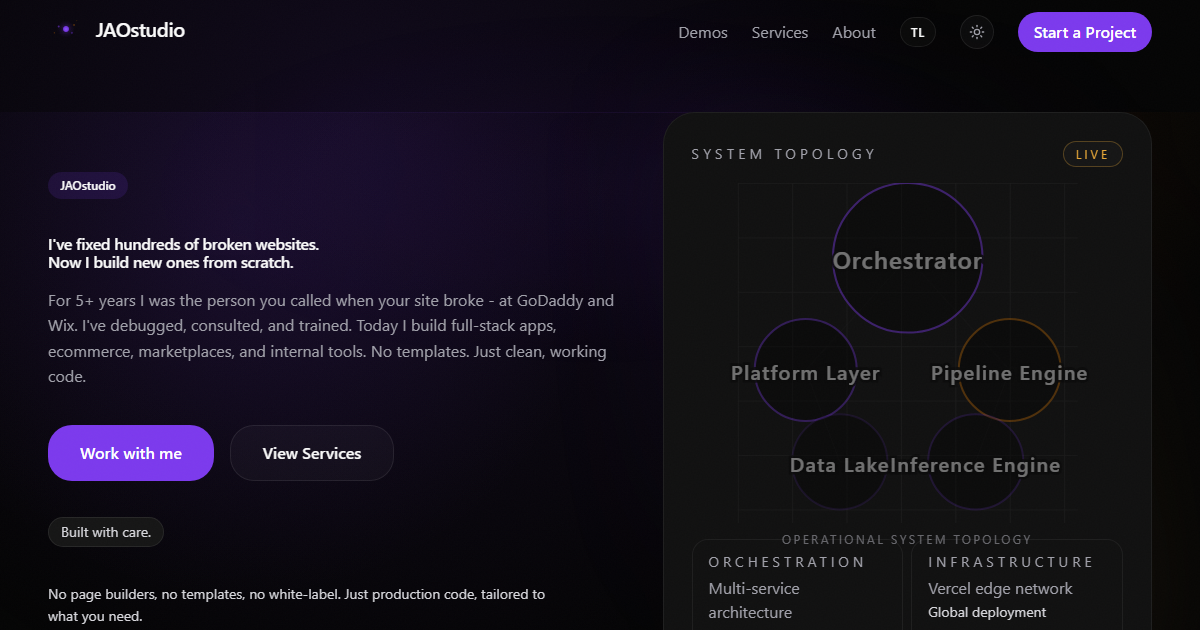
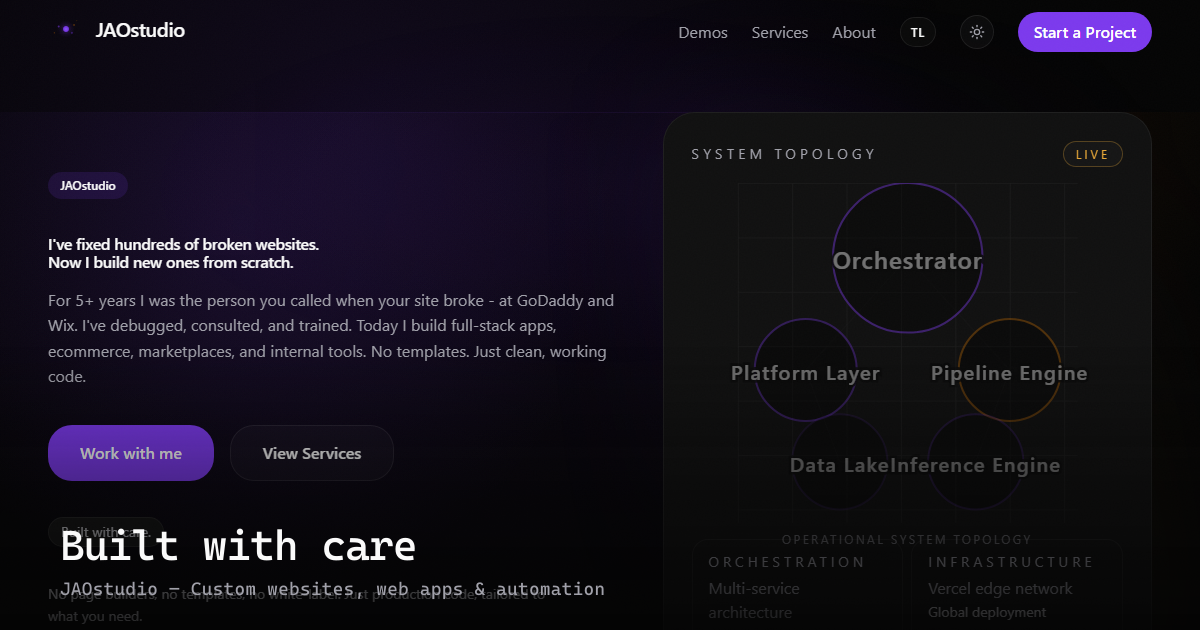
OG: serve homepage screenshot with 'Built with care' via /api/og route
- Captured live homepage screenshot at 1200x630
- Composited 'Built with care' tagline with dark gradient overlay
- New /api/og route handler serves PNG directly (bypasses Satori img limitation)
- Layout metadata points OG/Twitter images to /api/og
- Added composite-og.js script for future OG image updates

diff --git a/jaostudio/scripts/composite-og.js b/jaostudio/scripts/composite-og.js
@@ -1,0 +1,56 @@
+const sharp = require('sharp')
+const path = require('path')
+const fs = require('fs-extra')
+
+const ROOT = path.join(__dirname, '..')
+const SRC = path.join(ROOT, 'public', 'images', 'og', 'og-home.png')
+const OUT = SRC
+
+// SVG overlay: dark gradient at bottom with "Built with care" tagline
+const OVERLAY_SVG = Buffer.from(`
+<svg width="1200" height="630" xmlns="http://www.w3.org/2000/svg">
+  <defs>
+    <linearGradient id="fade" x1="0" y1="0" x2="0" y2="1">
+      <stop offset="0%" stop-color="#050505" stop-opacity="0"/>
+      <stop offset="55%" stop-color="#050505" stop-opacity="0"/>
+      <stop offset="100%" stop-color="#050505" stop-opacity="0.85"/>
+    </linearGradient>
+  </defs>
+  <rect width="1200" height="630" fill="url(#fade)"/>
+  <text
+    x="60"
+    y="560"
+    font-family="system-ui, -apple-system, sans-serif"
+    font-size="42"
+    font-weight="500"
+    fill="#FAFAFA"
+    letter-spacing="-0.02em"
+  >Built with care</text>
+  <text
+    x="60"
+    y="595"
+    font-family="system-ui, -apple-system, sans-serif"
+    font-size="18"
+    fill="#A1A1AA"
+    letter-spacing="0.02em"
+  >JAOstudio — Custom websites, web apps &amp; automation</text>
+</svg>
+`)
+
+async function main() {
+  await fs.ensureDir(path.dirname(OUT))
+  const img = sharp(SRC)
+  const meta = await img.metadata()
+  console.log(`Source: ${SRC} (${meta.width}x${meta.height})`)
+
+  await img
+    .composite([{ input: OVERLAY_SVG, top: 0, left: 0 }])
+    .png()
+    .toFile(OUT + '.tmp')
+
+  await fs.move(OUT + '.tmp', OUT, { overwrite: true })
+  const stat = await fs.stat(OUT)
+  console.log(`Done: ${OUT} (${Math.round(stat.size / 1024)} KB)`)
+}
+
+main().catch((err) => { console.error(err); process.exit(1) })

diff --git a/jaostudio/src/app/api/og/route.ts b/jaostudio/src/app/api/og/route.ts
@@ -1,0 +1,20 @@
+import { NextResponse } from 'next/server'
+import fs from 'fs'
+import path from 'path'
+
+export const dynamic = 'force-static'
+
+export async function GET() {
+  const filePath = path.join(process.cwd(), 'public', 'images', 'og', 'og-home.png')
+  try {
+    const buffer = fs.readFileSync(filePath)
+    return new NextResponse(buffer, {
+      headers: {
+        'Content-Type': 'image/png',
+        'Cache-Control': 'public, immutable, no-transform, max-age=31536000',
+      },
+    })
+  } catch {
+    return NextResponse.json({ error: 'Image not found' }, { status: 404 })
+  }
+}

diff --git a/jaostudio/src/app/layout.tsx b/jaostudio/src/app/layout.tsx
@@ -40,9 +40,11 @@ export const metadata: Metadata = {
     siteName: 'JAOstudio',
     locale: 'en_US',
     type: 'website',
+    images: [{ url: '/api/og', width: 1200, height: 630 }],
   },
   twitter: {
     card: 'summary_large_image',
+    images: ['/api/og'],
     title: 'JAOstudio | Web Developer',
     description:
       "I've fixed hundreds of broken websites. Now I build new ones from scratch. No templates, no page builders - just clean, working code.",